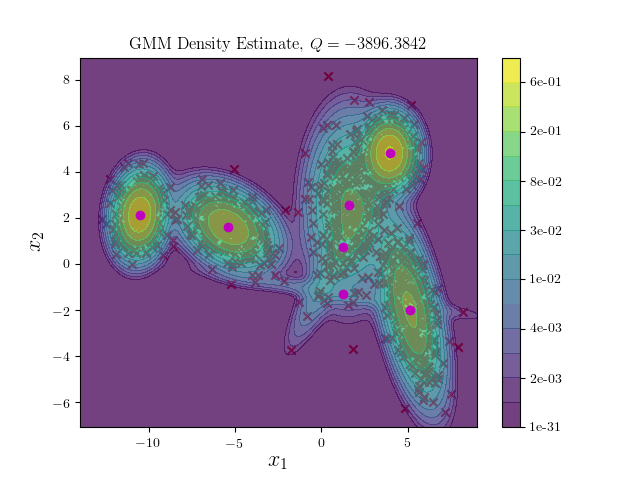
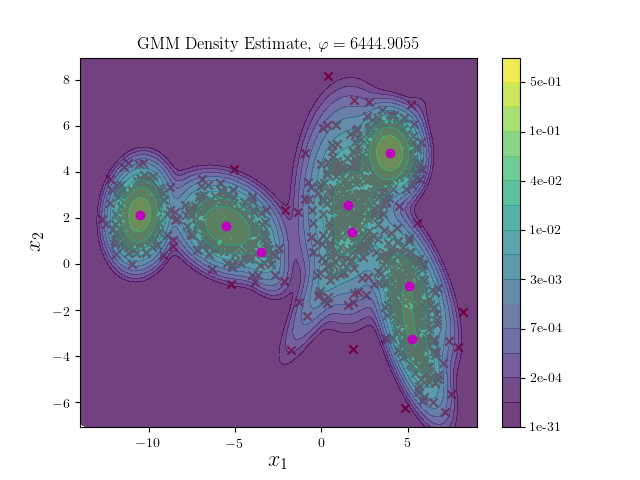
Some refactoring.  Also properly normalized the density.

diff --git a/mixture_gaussians.py b/mixture_gaussians.py
@@ -4,6 +4,7 @@ Implements EM algorithm for fitting a mixture of gaussian densities.
 import logging
 
 import numpy as np
+import scipy as sp
 import matplotlib.colors as colors
 
 from matplotlib import pyplot as plt
@@ -71,21 +72,47 @@ class GaussianMixtureModel:
                               "Mixture Model --------------")
         return
 
-    def _Estep(self, X, pi, mu, Sigma):
+    def _nll(self, X, pi, mu, Sigma):
+        """Evaluate the negative (observed) log-likelihood (energy function) of
+        all the data given in X.  This is the function that we are minimizing
+        via EM."""
+        nll = -np.sum(self._log_density(X, pi, mu, Sigma))
+        return nll
+
+    def _log_Px(self, X, mu, Sigma):
+        """Evaluates the log density of each mixture component at each
+        point in X.  So, if X is (N x p) and there are K components, this
+        will return a (K x N) array."""
         U = np.moveaxis(X[:, None, :] - mu, 0, 1)
+        log_Px = -0.5 * (np.einsum('kip,kpq,kiq->ki',
+                                   U, np.linalg.inv(Sigma), U)
+                         + np.linalg.slogdet(2 * np.pi * Sigma)[1][:, None])
+        return log_Px
+
+    def _log_density(self, X, pi, mu, Sigma):
+        """Evaluates the log density of the mixture model at each point
+        in X"""
+        log_Px = self._log_Px(X, mu, Sigma)
+        M = np.max(log_Px, axis=0)
+        log_p = M + np.log(np.einsum('k,ki->i', pi,
+                                     np.exp(log_Px - M)))
+        return log_p
+
+    def _Estep(self, X, pi, mu, Sigma):
         try:
-            log_Px = -0.5 * (np.einsum('kip,kpq,kiq->ki',
-                                       U, np.linalg.inv(Sigma), U)
-                             + np.linalg.slogdet(Sigma)[1][:, None])
+            log_Px = self._log_Px(X, mu, Sigma)
         except np.linalg.LinAlgError as e:
             if self.do_logging:
                 self.logger.error('LinAlgError in Estep: %s' % e)
             raise EstepException('LinAlgError')
 
+        # This protects against overflow in the exponential
+        # I don't really think this is necessary though since the
+        # log densities are all normalized.
         M = np.max(log_Px, axis=0)
         logsum_piPx = M + np.log(np.einsum('k,ki->i', pi,
                                            np.exp(log_Px - M)))
-        r = (pi[:, None] * np.exp(log_Px)) / np.exp(logsum_piPx)
+        r = (pi[:, None] * np.exp(log_Px - M)) / np.exp(logsum_piPx - M)
         if np.any(np.isnan(r)):
             if self.do_logging:
                 self.logger.error('r contains nan r = %s, pi = %s\n'
@@ -165,7 +192,7 @@ class GaussianMixtureModel:
         if self.MAP_regularize:
             self.S0 = np.var(X, axis=0)
 
-        Q_best = -np.inf
+        nll_best = np.inf
         for _ in range(num_restarts):
             if self.do_logging:
                 self.logger.info('----- EM restart ------')
@@ -221,12 +248,13 @@ class GaussianMixtureModel:
                     self.logger.debug("Step %d: Q = %0.5f, delta_Q = %0.5f"
                                       % (step_count, Q, delta_Q))
 
-            if Q > Q_best:
-                Q_best = Q
+            nll = self._nll(X, pi, mu, Sigma)
+            if nll < nll_best:
+                nll_best = nll
                 pi_best, mu_best, Sigma_best = pi, mu, Sigma
 
             if callback is not None:
-                callback(X, pi_best, mu_best, Sigma_best, Q_best)
+                callback(X, pi_best, mu_best, Sigma_best, nll_best)
 
             if self.do_logging:
                 self.logger.debug('Done.  pi_best = %s, mu_best = %s, '
@@ -234,10 +262,10 @@ class GaussianMixtureModel:
                                   % (pi_best, mu_best, Sigma_best))
 
         if callback is not None:
-            callback(X, pi_best, mu_best, Sigma_best, Q_best)
+            callback(X, pi_best, mu_best, Sigma_best, nll_best)
 
         self.pi, self.mu, self.Sigma = pi_best, mu_best, Sigma_best
-        self.Q_best = Q_best
+        self.nll_best = nll_best
         if self.prune_clusters:
             K = self.mu.shape[0]
             if K < self.num_clusters:
@@ -248,30 +276,23 @@ class GaussianMixtureModel:
         self._fitted = True
         return
 
-    def density(self, xxyy):
-        """Evaluate the fitted density at the points xxyy, an (M x p) array"""
+    def density(self, X):
+        """Evaluate the fitted density at the points X, an (M x p) array"""
         if not self._fitted:
             raise AssertionError('Model not fit')
         pi, mu, Sigma = self.pi, self.mu, self.Sigma
-        U = np.moveaxis(xxyy[:, None, :] - mu, 0, 1)
         try:
-            log_Px = -0.5 * (np.einsum('kip,kpq,kiq->ki',
-                                       U, np.linalg.inv(Sigma), U)
-                             + np.linalg.slogdet(Sigma)[1][:, None])
-            # This will fail if Sigma is a singular matrix
+            log_p = self._log_density(X, pi, mu, Sigma)
         except np.linalg.LinAlgError as e:
             self.logger.error('LinAlgError in density(): %s' % e)
             raise e
 
-        M = np.max(log_Px, axis=0)
-        logsum_piPx = M + np.log(np.einsum('k,ki->i', pi,
-                                           np.exp(log_Px - M)))
-        p = np.exp(logsum_piPx)
-        if np.any(np.isnan(p)):
+        p = np.exp(log_p)
+        if np.any(np.isnan(p)):  # This shouldn't happen unless a serious bug
             if self.do_logging:
                 self.logger.error('density p contains nan p = %s, log_p = %s\n'
                                   'Setting nans to 0 and continuing'
-                                  % (p, log_Px))
+                                  % (p, log_p))
             p[np.isnan(p)] = 0
         return p
 
@@ -297,13 +318,14 @@ class GaussianMixtureModel:
         fig, ax = plt.subplots(1, 1)
         ax.scatter(X[:, 0], X[:, 1], color='r', marker='x')
         min_pwr = int(np.min(np.log10(p)))
-        levels = np.append(10**min_pwr, np.logspace(-3, 0, 15))
+        levels = np.append(10**min_pwr, np.logspace(-4, 0, 15))
         cntr = ax.contourf(x, y, p, levels, alpha=0.75,
-                           norm=colors.LogNorm(vmin=1e-3, vmax=1.))
+                           norm=colors.LogNorm(vmin=1e-4, vmax=1.))
         fig.colorbar(cntr, format='%.0e')
 
         plt.scatter(self.mu[:, 0], self.mu[:, 1], color='m', marker='o')
-        ax.set_xlabel('$x_1$', fontsize=16)
-        ax.set_ylabel('$x_2$', fontsize=16)
-        ax.set_title('GMM Density Estimate, $Q = %0.4f$' % self.Q_best)
+        ax.set_xlabel(r'$x_1$', fontsize=16)
+        ax.set_ylabel(r'$x_2$', fontsize=16)
+        ax.set_title(r'GMM Density Estimate, $\varphi = %0.4f$'
+                     % self.nll_best)
         return fig

diff --git a/test.py b/test.py
@@ -43,39 +43,26 @@ class TestMixtureGaussians(unittest.TestCase):
         gmm.fit(X)
         return
 
-    def test006_pruning(self):
-        N = 200
-        mu = np.array([[-4, 0],
-                       [4, 4]])
-        Sigma = np.array([[[1., -0.1],
-                           [-0.1, 1.3]],
-
-                          [[0.6, 0.2],
-                           [0.2, 1.8]]])
-
-        X1 = np.random.multivariate_normal(mu[0], Sigma[0], size=N // 2)
-        X2 = np.random.multivariate_normal(mu[1], Sigma[1], size=N // 2)
-        X = np.vstack((X1, X2))
-
-        gmm = GaussianMixtureModel(200, do_logging=True, prune_clusters=True)
-        gmm.fit(X, callback=plot_progress_2D, num_restarts=5)
-        return
-
     def test003_cluster(self):
-        N = 200
-        mu = np.array([[-4, 0],
-                       [4, 4]])
+        N = 250
+        mu = np.array([[-2, 0],
+                       [2, 2],
+                       [1.1, -0.95]])
         Sigma = np.array([[[1., -0.1],
                            [-0.1, 1.3]],
 
                           [[0.6, 0.2],
-                           [0.2, 1.8]]])
+                           [0.2, 1.8]],
 
-        X1 = np.random.multivariate_normal(mu[0], Sigma[0], size=N // 2)
-        X2 = np.random.multivariate_normal(mu[1], Sigma[1], size=N // 2)
-        X = np.vstack((X1, X2))
+                          [[2.2, -0.3],
+                           [-0.3, 0.7]]])
 
-        gmm = GaussianMixtureModel(2, do_logging=True)
+        X1 = np.random.multivariate_normal(mu[0], Sigma[0], size=N // 3)
+        X2 = np.random.multivariate_normal(mu[1], Sigma[1], size=N // 3)
+        X3 = np.random.multivariate_normal(mu[2], Sigma[2], size=N // 3)
+        X = np.vstack((X1, X2, X3))
+
+        gmm = GaussianMixtureModel(3, do_logging=True)
         gmm.fit(X, callback=plot_progress_2D, num_restarts=5)
 
         x_min, x_max = np.min(X[:, 0]), np.max(X[:, 0])
@@ -88,6 +75,7 @@ class TestMixtureGaussians(unittest.TestCase):
         p = gmm.density(xxyy).reshape(xx.shape)
         plt.scatter(X1[:, 0], X1[:, 1], color='r', marker='x')
         plt.scatter(X2[:, 0], X2[:, 1], color='m', marker='o')
+        plt.scatter(X3[:, 0], X3[:, 1], color='g', marker='v')
         plt.contourf(x, y, p, alpha=0.5)
         plt.colorbar()
         plt.xlabel('$x$')
@@ -163,4 +151,22 @@ class TestMixtureGaussians(unittest.TestCase):
 
         gmm = GaussianMixtureModel(K + 3)
         gmm.fit(X, num_restarts=25)
+        return
+
+    def test007_pruning(self):
+        N = 200
+        mu = np.array([[-4, 0],
+                       [4, 4]])
+        Sigma = np.array([[[1., -0.1],
+                           [-0.1, 1.3]],
+
+                          [[0.6, 0.2],
+                           [0.2, 1.8]]])
+
+        X1 = np.random.multivariate_normal(mu[0], Sigma[0], size=N // 2)
+        X2 = np.random.multivariate_normal(mu[1], Sigma[1], size=N // 2)
+        X = np.vstack((X1, X2))
+
+        gmm = GaussianMixtureModel(200, do_logging=True, prune_clusters=True)
+        gmm.fit(X, callback=plot_progress_2D, num_restarts=5)
         return
